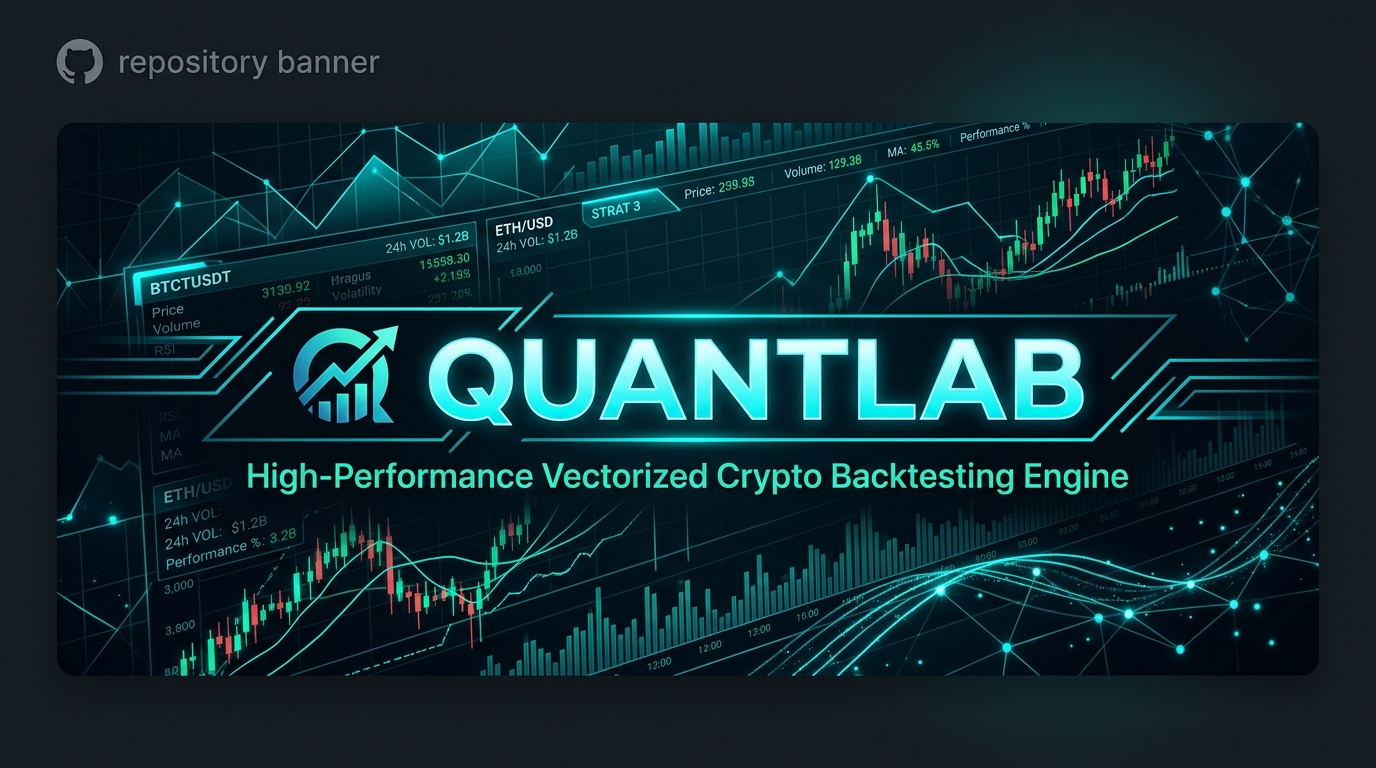
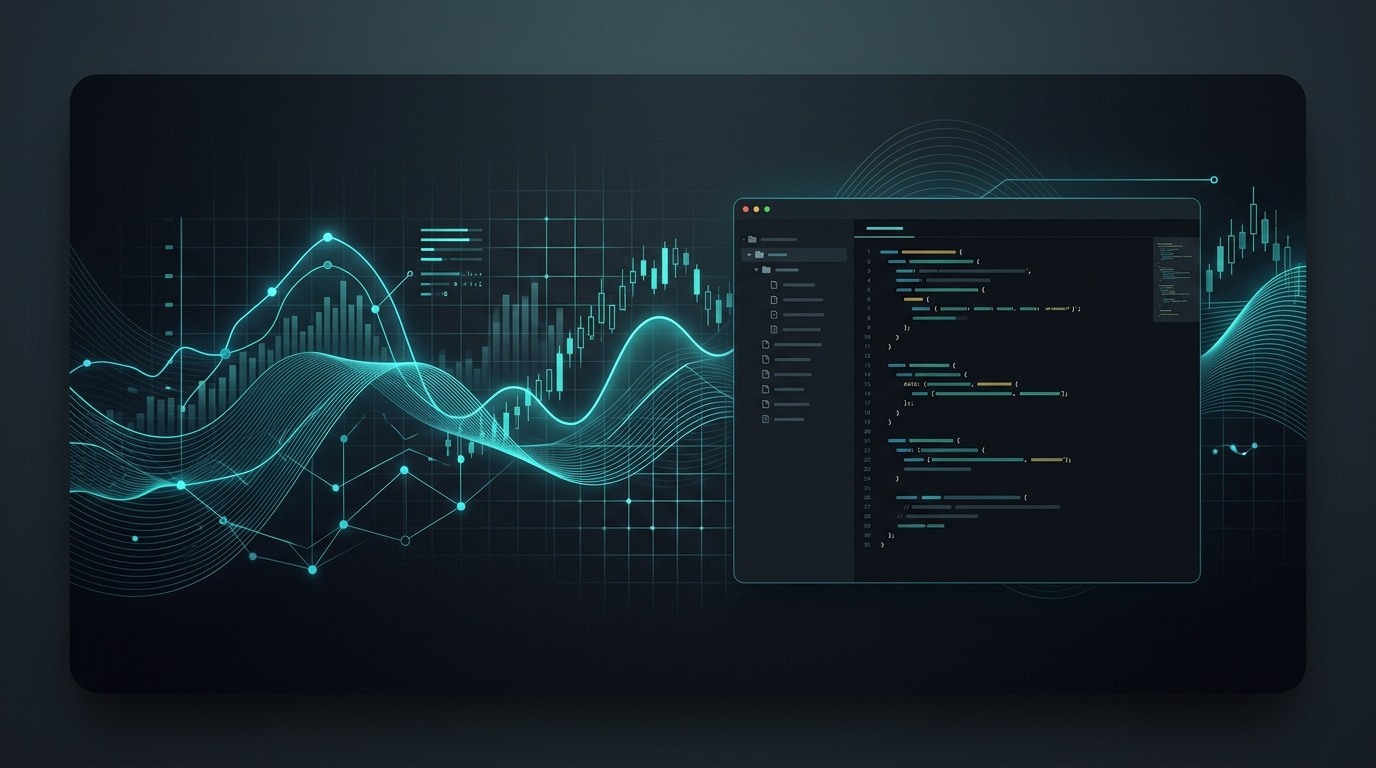
fix(docs): overhaul branding assets with sleek v2 visual theme and rectify GitHub Mermaid syntax

diff --git a/README.md b/README.md
@@ -1,39 +1,39 @@
-<p align="center">
-  <img src="docs/assets/banner.jpg" alt="QuantLab Banner" width="100%" />
-</p>
+<div align="center">
+  <img src="docs/assets/banner.jpg" alt="QuantLab Banner" width="850" style="max-width: 100%; border-radius: 12px; margin-bottom: 20px;" />
 
-<p align="center">
-  <img src="docs/assets/logo.jpg" alt="QuantLab Logo" width="130" style="border-radius: 20px;" />
-</p>
+  <br />
 
-<h1 align="center">QuantLab ⚡</h1>
+  <img src="docs/assets/logo.jpg" alt="QuantLab Logo" width="140" height="140" style="border-radius: 28px; box-shadow: 0 8px 24px rgba(0,0,0,0.25);" />
 
-<p align="center">
-  <b>High-Performance Vectorized Cryptocurrency Quantitative Backtesting Engine</b>
-</p>
+  <h1>QuantLab ⚡</h1>
 
-<p align="center">
-  <i>Accelerated by <code>vectorbt</code> & Powered by Binance Historical OHLCV Data</i>
-</p>
+  <p>
+    <b>High-Performance Vectorized Cryptocurrency Quantitative Backtesting Engine</b>
+  </p>
 
-<p align="center">
-  <a href="https://python.org"><img src="https://img.shields.io/badge/Python-3.11+-3776AB?style=for-the-badge&logo=python&logoColor=white" alt="Python 3.11+"></a>
-  <a href="https://vectorbt.dev"><img src="https://img.shields.io/badge/Engine-vectorbt%20v1.1+-FF6F00?style=for-the-badge&logo=python&logoColor=white" alt="vectorbt"></a>
-  <a href="https://binance.com"><img src="https://img.shields.io/badge/Data-Binance%20CCXT-F3BA2F?style=for-the-badge&logo=binance&logoColor=black" alt="Binance Data"></a>
-  <a href="https://astral.sh/uv"><img src="https://img.shields.io/badge/Package%20Manager-uv-DE5FE9?style=for-the-badge&logo=astral&logoColor=white" alt="uv"></a>
-  <a href="https://pytest.org"><img src="https://img.shields.io/badge/Tests-33%20Passed-0A9EDC?style=for-the-badge&logo=pytest&logoColor=white" alt="Pytest"></a>
-  <a href="LICENSE"><img src="https://img.shields.io/badge/License-MIT-green?style=for-the-badge" alt="License"></a>
-</p>
+  <p>
+    <i>Accelerated by <code>vectorbt</code> & Powered by Binance Historical Market Data</i>
+  </p>
 
-<p align="center">
-  <a href="#-key-features"><b>Features</b></a> •
-  <a href="#%EF%B8%8F-system-architecture"><b>Architecture</b></a> •
-  <a href="#-quick-start"><b>Quick Start</b></a> •
-  <a href="#-demo-executions--reports"><b>Demos & Reports</b></a> •
-  <a href="#-code-api-example"><b>Code API</b></a> •
-  <a href="#-project-structure"><b>Project Structure</b></a> •
-  <a href="#%EF%B8%8F-roadmap--backlog"><b>Roadmap</b></a>
-</p>
+  <p>
+    <a href="https://python.org"><img src="https://img.shields.io/badge/Python-3.11+-3776AB?style=for-the-badge&logo=python&logoColor=white" alt="Python 3.11+"></a>
+    <a href="https://vectorbt.dev"><img src="https://img.shields.io/badge/Engine-vectorbt%20v1.1+-FF6F00?style=for-the-badge&logo=python&logoColor=white" alt="vectorbt"></a>
+    <a href="https://binance.com"><img src="https://img.shields.io/badge/Data-Binance%20CCXT-F3BA2F?style=for-the-badge&logo=binance&logoColor=black" alt="Binance Data"></a>
+    <a href="https://astral.sh/uv"><img src="https://img.shields.io/badge/Package%20Manager-uv-DE5FE9?style=for-the-badge&logo=astral&logoColor=white" alt="uv"></a>
+    <a href="https://pytest.org"><img src="https://img.shields.io/badge/Tests-33%20Passed-0A9EDC?style=for-the-badge&logo=pytest&logoColor=white" alt="Pytest"></a>
+    <a href="LICENSE"><img src="https://img.shields.io/badge/License-MIT-green?style=for-the-badge" alt="License"></a>
+  </p>
+
+  <p>
+    <a href="#-key-features"><b>Features</b></a> •
+    <a href="#%EF%B8%8F-system-architecture"><b>Architecture</b></a> •
+    <a href="#-quick-start"><b>Quick Start</b></a> •
+    <a href="#-demo-executions--reports"><b>Demos & Reports</b></a> •
+    <a href="#-code-api-example"><b>Code API</b></a> •
+    <a href="#-project-structure"><b>Project Structure</b></a> •
+    <a href="#%EF%B8%8F-roadmap--backlog"><b>Roadmap</b></a>
+  </p>
+</div>
 
 ---
 
@@ -63,46 +63,49 @@
 
 QuantLab utilizes a decoupled modular pipeline architecture. Market data flows downwards through vectorized calculation layers into backtesting portfolio simulation and parameter screening engines.
 
-<p align="center">
-  <img src="docs/assets/workflow.jpg" alt="QuantLab Architecture Workflow" width="100%" />
-</p>
+<div align="center">
+  <img src="docs/assets/workflow.jpg" alt="QuantLab Architecture Workflow" width="850" style="max-width: 100%; border-radius: 12px;" />
+</div>
 
-### 🔄 Data & Execution Flow (Mermaid)
+<br />
+
+### 🔄 Data & Execution Flow Diagram
 
 ```mermaid
 flowchart TD
-    subgraph Data Pipeline ["1. Market Data Pipeline"]
-        A[Binance Exchange API] -->|CCXT API Request| B[ohlcv.py / get_ohlcv]
-        B -->|Check Disk Cache| C{Parquet Exists?}
-        C -->|Yes| D[Load Parquet File]
-        C -->|No| E[Paginate OHLCV Batches]
-        E -->|Save Parquet| F[Local Cache: data/*.parquet]
+    subgraph Data["1. Market Data Pipeline"]
+        A["Binance Exchange API"] -->|"CCXT Fetch"| B["ohlcv.py / get_ohlcv"]
+        B -->|"Check Disk Cache"| C{"Parquet Exists?"}
+        C -->|"Yes"| D["Load Parquet Data"]
+        C -->|"No"| E["Paginate OHLCV Batches"]
+        E -->|"Save Parquet"| F["Local Cache: data/*.parquet"]
         F --> D
     end
 
-    subgraph Indicator Engine ["2. Vectorized Indicators"]
+    subgraph Indicators["2. Vectorized Indicators"]
         D --> G["quantlab.indicators.trend (SMA / EMA)"]
         D --> H["quantlab.indicators.momentum (RSI)"]
     end
 
-    subgraph Strategy Layer ["3. Signal Generation"]
+    subgraph Signals["3. Signal Generation"]
         G --> I["quantlab.strategies.sma_crossover"]
-        I -->|Shift & Vector Logic| J[Entries & Exits Boolean Series]
+        H --> I
+        I -->|"Vectorized Crossover Logic"| J["Entries & Exits Boolean Series"]
     end
 
-    subgraph Simulation & Screening ["4. Backtest & Screening Engine"]
+    subgraph Simulation["4. Backtest & Screening Engine"]
         J --> K["quantlab.backtest.engine / run_backtest"]
         D --> K
-        K -->|VectorBT Portfolio| L[extract_metrics]
-        L --> M[Total Return / Sharpe / Max Drawdown / Win Rate]
+        K -->|"VectorBT Portfolio"| L["extract_metrics"]
+        L --> M["Total Return / Sharpe / Max Drawdown / Win Rate"]
         J --> N["quantlab.screening.param_sweep"]
-        N -->|Grid Search Sweep| O[Sensitivity Matrix & Report]
+        N -->|"Grid Search Sweep"| O["Sensitivity Matrix & Report"]
     end
 
-    style Data Pipeline fill:#1e293b,stroke:#3b82f6,stroke-width:2px,color:#fff
-    style Indicator Engine fill:#0f172a,stroke:#06b6d4,stroke-width:2px,color:#fff
-    style Strategy Layer fill:#1e1b4b,stroke:#8b5cf6,stroke-width:2px,color:#fff
-    style Simulation & Screening fill:#064e3b,stroke:#10b981,stroke-width:2px,color:#fff
+    style Data fill:#1e293b,stroke:#3b82f6,stroke-width:2px,color:#fff
+    style Indicators fill:#0f172a,stroke:#06b6d4,stroke-width:2px,color:#fff
+    style Signals fill:#1e1b4b,stroke:#8b5cf6,stroke-width:2px,color:#fff
+    style Simulation fill:#064e3b,stroke:#10b981,stroke-width:2px,color:#fff
 ```
 
 ---
